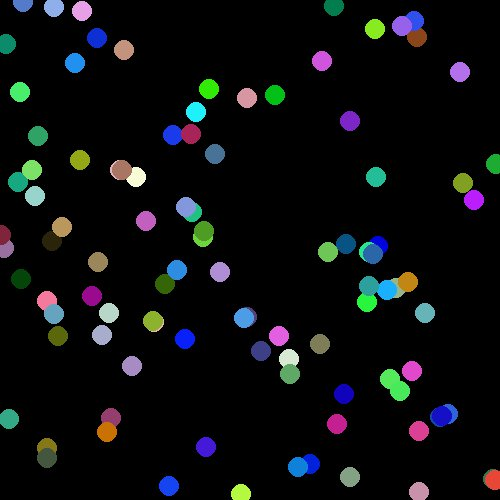
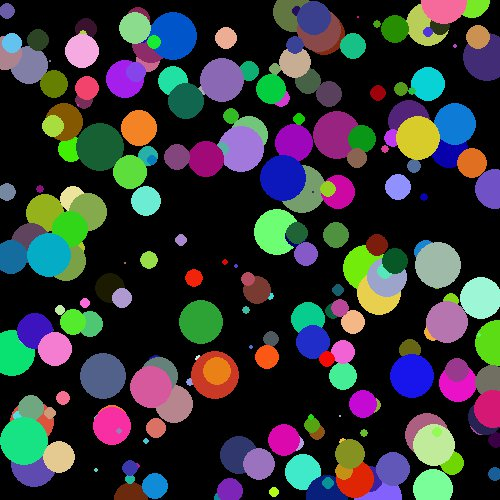
more generation

diff --git a/index.py b/index.py
@@ -10,12 +10,12 @@ radius = 10
 try:
     x = 0
 
-    while x < 100:
+    while x < 250:
 
         color = (random.randrange(256), random.randrange(
             256), random.randrange(256))
         pygame.draw.circle(screen, color, (random.randrange(
-            500), random.randrange(500)), radius)
+            500), random.randrange(500)), random.randrange(25))
         draw_on = True
         x = x + 1
 
